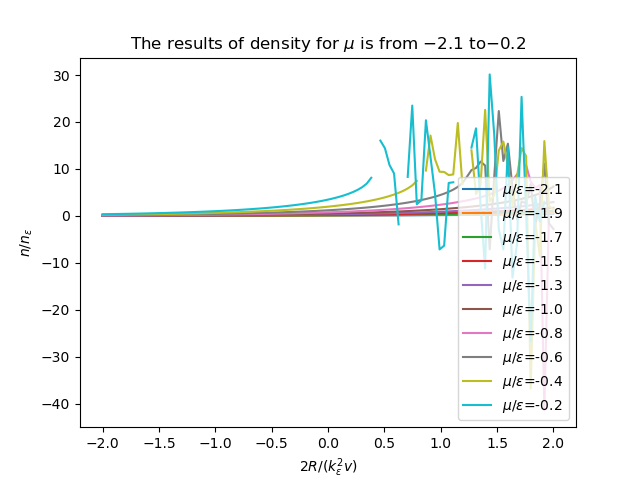
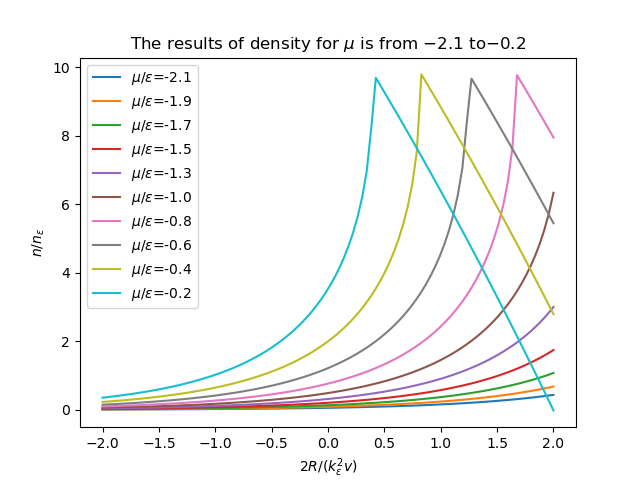
update the ana3 density program

diff --git a/2-density.py b/2-density.py
@@ -28,7 +28,13 @@ elif noa=='ana3':
     density = np.zeros([Nrkv, Nmu])
     for j in range(Nmu):
         for i in range(Nrkv):
-            density[i, j], err = integrate.quad(lambda x:anaDensity(x, rkv[i], mu[j]), 0, 3, epsabs=epsabs) 
+            sp = 4*mu[j] + 2*rkv[i]
+            sp = np.sqrt(np.abs(sp))
+            a, err = integrate.quad(lambda x:anaDensity(x, rkv[i], mu[j]),0,
+                                    sp-zero, epsabs=epsabs)
+            b, err = integrate.quad(lambda x:anaDensity(x, rkv[i], mu[j]),
+                                    sp+zero, 10, epsabs=epsabs)
+            density[i, j] = a + b
     for i in range(Nmu):
         plt.plot(rkv, density[:, i],
                  label=r'$\mu/\varepsilon$=%.1f'%mu[i])
